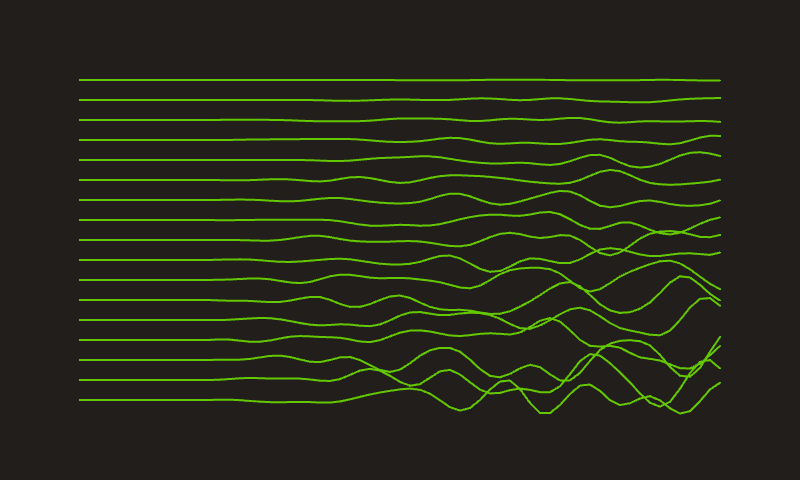
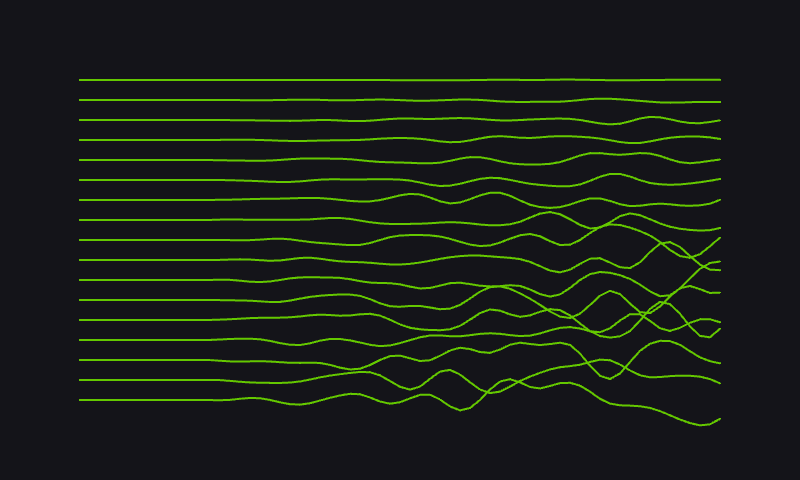
Match noise-lines background

Changed region(s): [[0.25, 0.1562, 0.9062, 0.9062], [0.25, 0.4375, 0.3125, 0.4688], [0.875, 0.375, 0.9062, 0.4062]]

diff --git a/art/src/scenes/noise-lines.ts b/art/src/scenes/noise-lines.ts
@@ -18,8 +18,12 @@ const MAX_POINTS = 75;
 const DISTORTION_START = 0.2;
 const DISTORTION_END = 0.9;
 const FREQUENCY = 0.1;
+const BACKGROUND_COLOR = "rgb(20, 20, 25)";
 
-const { scene, camera, renderer, bounds } = createScene({ margin: 75 });
+const { scene, camera, renderer, bounds } = createScene({
+  background: BACKGROUND_COLOR,
+  margin: 75,
+});
 
 const lineYs = ticks(bounds.bottom, bounds.top, 15);
 lineYs.forEach(createLine);
